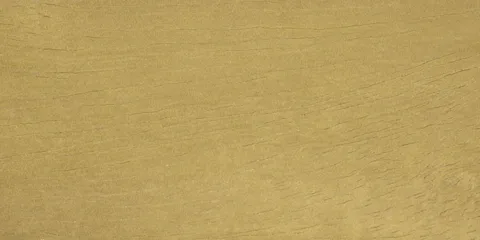
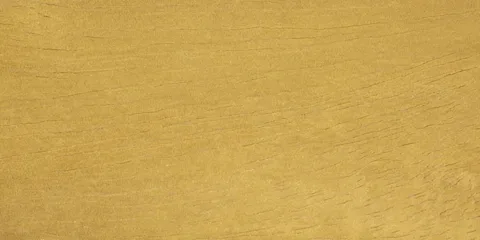
Maderas retocadas, caoba y aurora nuevas, y Vanitarios Wichi editados
- Las 8 maderas de Commons pasan a las versiones retocadas de color.
- Entran la caoba (Swietenia macrophylla, Cirad) y la aurora
  (Erisma uncinatum · mureillo), con foto propia.
- El apamate deja el cuadro de color: foto propia de un retal.
- El crédito dice que las del apamate y la aurora son fotos propias.
- Vanitarios Wichi (Exhibición): fotos 1 a 3 cambiadas por sus versiones
  editadas de color; la 4 sigue igual.

diff --git a/taller.html b/taller.html
@@ -393,8 +393,10 @@
       <ul class="maderas" data-es="
         <li><img style=&quot;--m:#D9B77A&quot; src=&quot;img/maderas/pino.webp&quot; alt=&quot;&quot; loading=&quot;lazy&quot;><b>Pino</b><em>Pinus caribaea · Pino Caribe</em><span>Blanda y liviana, de veta recta y nudos vivos. Es la de estructura: barata, fácil de trabajar y de repuesto seguro. Con los años dora.</span></li>
         <li><img style=&quot;--m:#7F5435&quot; src=&quot;img/maderas/saman.webp&quot; alt=&quot;&quot; loading=&quot;lazy&quot;><b>Samán</b><em>Samanea saman</em><span>Dura, pesada y de veta muy marcada, con el albura clara contrastando contra un corazón chocolate. Cuando la madera es lo que se mira, es ésta.</span></li>
-        <li><i style=&quot;--m:#C9A882&quot;></i><b>Apamate</b><em>Tabebuia rosea</em><span>Dureza media y tono rosado tostado, de veta tranquila. Estable y agradecida al cepillo; buena para piezas que se tocan mucho.</span></li>
+        <li><img style=&quot;--m:#C9A882&quot; src=&quot;img/maderas/apamate.webp&quot; alt=&quot;&quot; loading=&quot;lazy&quot;><b>Apamate</b><em>Tabebuia rosea</em><span>Dureza media y tono rosado tostado, de veta tranquila. Estable y agradecida al cepillo; buena para piezas que se tocan mucho.</span></li>
         <li><img style=&quot;--m:#A9673C&quot; src=&quot;img/maderas/cedro.webp&quot; alt=&quot;&quot; loading=&quot;lazy&quot;><b>Cedro</b><em>Cedrela odorata</em><span>Liviana para lo rojiza que es, aromática, y de las más nobles para tallar. Clásica de mueblería fina. Se raya con facilidad: no es para una tabla de picar.</span></li>
+        <li><img style=&quot;--m:#8A4F32&quot; src=&quot;img/maderas/caoba.webp&quot; alt=&quot;&quot; loading=&quot;lazy&quot;><b>Caoba</b><em>Swietenia macrophylla</em><span>Pardo rojiza, que se oscurece y gana brillo con los años. Estable, dócil al trabajo y fácil de pulir: la madera clásica del mueble fino.</span></li>
+        <li><img style=&quot;--m:#7A3526&quot; src=&quot;img/maderas/aurora.webp&quot; alt=&quot;&quot; loading=&quot;lazy&quot;><b>Aurora</b><em>Erisma uncinatum · mureillo</em><span>Rojiza, oscura y muy liviana. Astilla bastante al trabajarla.</span></li>
         <li><img style=&quot;--m:#8A6B2F&quot; src=&quot;img/maderas/puy.webp&quot; alt=&quot;&quot; loading=&quot;lazy&quot;><b>Puy</b><em>Tabebuia serratifolia</em><span>Muy dura y densa, pardo oliva. Aguanta a la intemperie y el uso rudo mejor que casi cualquier otra de aquí. Cuesta trabajarla, y se nota en el filo de las herramientas.</span></li>
         <li><img style=&quot;--m:#A9814B&quot; src=&quot;img/maderas/teca.webp&quot; alt=&quot;&quot; loading=&quot;lazy&quot;><b>Teca</b><em>Tectona grandis</em><span>Dorada, grasosa al tacto por sus aceites naturales, y la más estable de todas frente a la humedad. Por eso es la de cocina y la de exterior.</span></li>
         <li><img style=&quot;--m:#8B4A2B&quot; src=&quot;img/maderas/algarrobo.webp&quot; alt=&quot;&quot; loading=&quot;lazy&quot;><b>Algarrobo</b><em>Hymenaea courbaril</em><span>Muy dura y pesada, de un rojo anaranjado que se oscurece con la luz. Pesa de verdad: una tabla grande se siente en la mano.</span></li>
@@ -403,8 +405,10 @@
       " data-en="
         <li><img style=&quot;--m:#D9B77A&quot; src=&quot;img/maderas/pino.webp&quot; alt=&quot;&quot; loading=&quot;lazy&quot;><b>Pine</b><em>Pinus caribaea · Caribbean pine</em><span>Soft and light, straight-grained with live knots. This is the structural one: cheap, easy to work and easy to replace. It turns golden over the years.</span></li>
         <li><img style=&quot;--m:#7F5435&quot; src=&quot;img/maderas/saman.webp&quot; alt=&quot;&quot; loading=&quot;lazy&quot;><b>Monkeypod</b><em>Samanea saman</em><span>Hard, heavy and strongly figured, pale sapwood set against a chocolate heart. When the wood is the thing you look at, it's this one.</span></li>
-        <li><i style=&quot;--m:#C9A882&quot;></i><b>Apamate</b><em>Tabebuia rosea</em><span>Medium hardness, a toasted rose tone and quiet grain. Stable and rewarding under the plane; good for pieces that get handled a lot.</span></li>
+        <li><img style=&quot;--m:#C9A882&quot; src=&quot;img/maderas/apamate.webp&quot; alt=&quot;&quot; loading=&quot;lazy&quot;><b>Apamate</b><em>Tabebuia rosea</em><span>Medium hardness, a toasted rose tone and quiet grain. Stable and rewarding under the plane; good for pieces that get handled a lot.</span></li>
         <li><img style=&quot;--m:#A9673C&quot; src=&quot;img/maderas/cedro.webp&quot; alt=&quot;&quot; loading=&quot;lazy&quot;><b>Spanish cedar</b><em>Cedrela odorata</em><span>Light for how red it is, aromatic, and one of the finest to carve. A classic of good cabinetwork. It marks easily, so not for a cutting board.</span></li>
+        <li><img style=&quot;--m:#8A4F32&quot; src=&quot;img/maderas/caoba.webp&quot; alt=&quot;&quot; loading=&quot;lazy&quot;><b>Mahogany</b><em>Swietenia macrophylla</em><span>Reddish brown that darkens and gains lustre with age. Stable, easy to work and to polish: the classic fine-furniture wood.</span></li>
+        <li><img style=&quot;--m:#7A3526&quot; src=&quot;img/maderas/aurora.webp&quot; alt=&quot;&quot; loading=&quot;lazy&quot;><b>Aurora</b><em>Erisma uncinatum · mureillo</em><span>Reddish, dark and very light. It splinters quite a bit when worked.</span></li>
         <li><img style=&quot;--m:#8A6B2F&quot; src=&quot;img/maderas/puy.webp&quot; alt=&quot;&quot; loading=&quot;lazy&quot;><b>Ipê</b><em>Tabebuia serratifolia</em><span>Very hard and dense, olive brown. It stands up to weather and rough use better than almost anything else here. Hard on tools, and you feel it on the edge.</span></li>
         <li><img style=&quot;--m:#A9814B&quot; src=&quot;img/maderas/teca.webp&quot; alt=&quot;&quot; loading=&quot;lazy&quot;><b>Teak</b><em>Tectona grandis</em><span>Golden, faintly oily to the touch from its natural resins, and the most stable of all against moisture. That's why it's the kitchen and outdoor wood.</span></li>
         <li><img style=&quot;--m:#8B4A2B&quot; src=&quot;img/maderas/algarrobo.webp&quot; alt=&quot;&quot; loading=&quot;lazy&quot;><b>Jatoba</b><em>Hymenaea courbaril</em><span>Very hard and heavy, an orange red that darkens with light. It genuinely weighs: you feel a large board in the hand.</span></li>
@@ -417,8 +421,8 @@
            foto sale, esta línea se puede simplificar; si entra otra de
            Commons con licencia BY, se añade aquí igual. -->
       <p class="maderas-credito"
-         data-es="Fotos de las muestras: Xylothèque du Cirad (dominio público), vía Wikimedia Commons. La del puy es de Jean-Pierre Chéreau y Roger Culos, Muséum de Toulouse, <a href='https://commons.wikimedia.org/wiki/File:Tabebuia_serratifolia_MHNT.BOT.2010.6.46.jpg' target='_blank' rel='noopener'>vía Wikimedia Commons</a>, con licencia <a href='https://creativecommons.org/licenses/by-sa/3.0/deed.es' target='_blank' rel='noopener'>CC BY-SA 3.0</a>, recortada. El apamate todavía no tiene foto."
-         data-en="Sample photos: Xylothèque du Cirad (public domain), via Wikimedia Commons. The ipê photo is by Jean-Pierre Chéreau and Roger Culos, Muséum de Toulouse, <a href='https://commons.wikimedia.org/wiki/File:Tabebuia_serratifolia_MHNT.BOT.2010.6.46.jpg' target='_blank' rel='noopener'>via Wikimedia Commons</a>, licensed <a href='https://creativecommons.org/licenses/by-sa/3.0/deed.en' target='_blank' rel='noopener'>CC BY-SA 3.0</a>, cropped. Apamate doesn't have a photo yet."></p>
+         data-es="Fotos de las muestras: Xylothèque du Cirad (dominio público), vía Wikimedia Commons. La del puy es de Jean-Pierre Chéreau y Roger Culos, Muséum de Toulouse, <a href='https://commons.wikimedia.org/wiki/File:Tabebuia_serratifolia_MHNT.BOT.2010.6.46.jpg' target='_blank' rel='noopener'>vía Wikimedia Commons</a>, con licencia <a href='https://creativecommons.org/licenses/by-sa/3.0/deed.es' target='_blank' rel='noopener'>CC BY-SA 3.0</a>, recortada. Las del apamate y la aurora son fotos mías."
+         data-en="Sample photos: Xylothèque du Cirad (public domain), via Wikimedia Commons. The ipê photo is by Jean-Pierre Chéreau and Roger Culos, Muséum de Toulouse, <a href='https://commons.wikimedia.org/wiki/File:Tabebuia_serratifolia_MHNT.BOT.2010.6.46.jpg' target='_blank' rel='noopener'>via Wikimedia Commons</a>, licensed <a href='https://creativecommons.org/licenses/by-sa/3.0/deed.en' target='_blank' rel='noopener'>CC BY-SA 3.0</a>, cropped. The apamate and aurora photos are my own."></p>
     </section>
 
     <!-- 2026-08-14 · Aquí iba «Lo que no hago»: los cuatro

diff --git a/datos/imagenes.js b/datos/imagenes.js
@@ -1,5 +1,5 @@
 /* GENERADO POR Achicar-imagenes.ps1 — no editar a mano.
-   2026-09-14 17:56
+   2026-09-15 13:45
 
    Las fotos que tienen al lado una copia <nombre>-movil.webp de
    1000 px. sitio.js consulta esta lista para ofrecerle al
